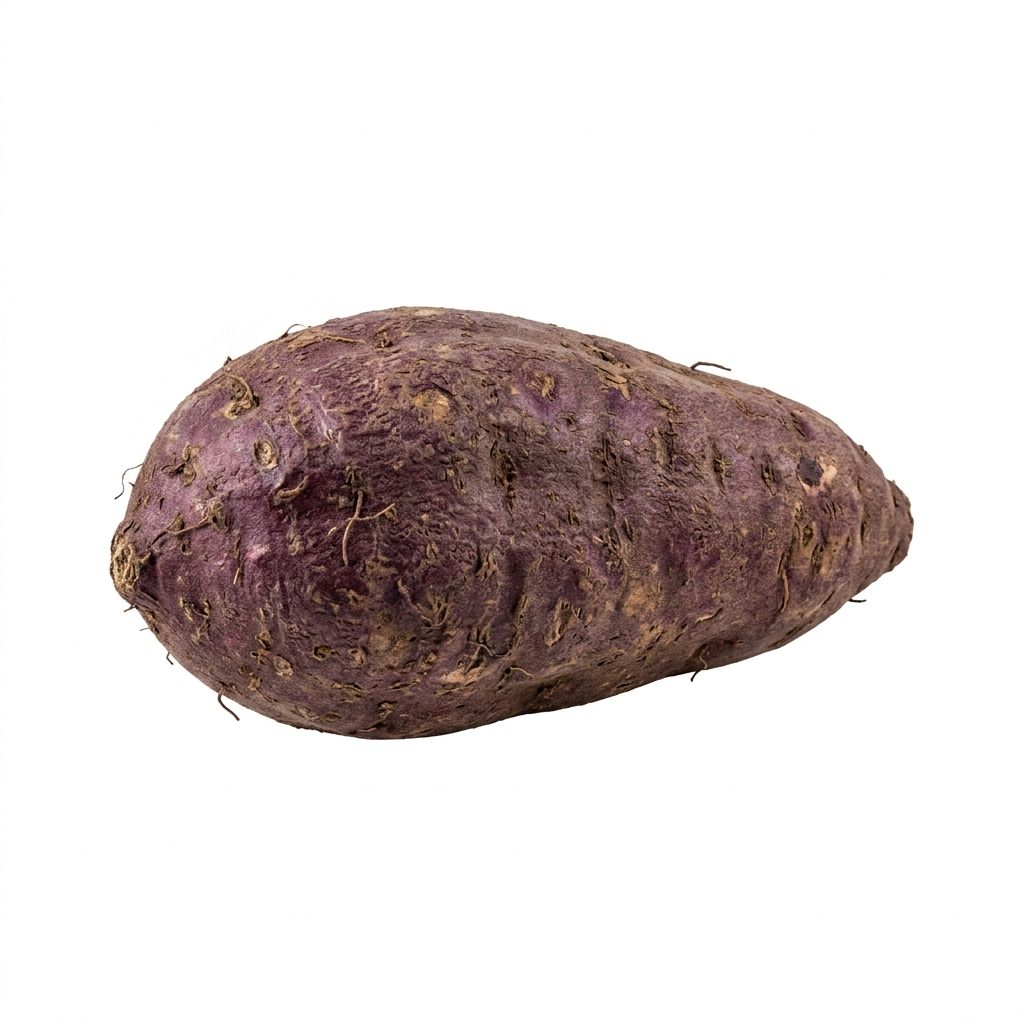
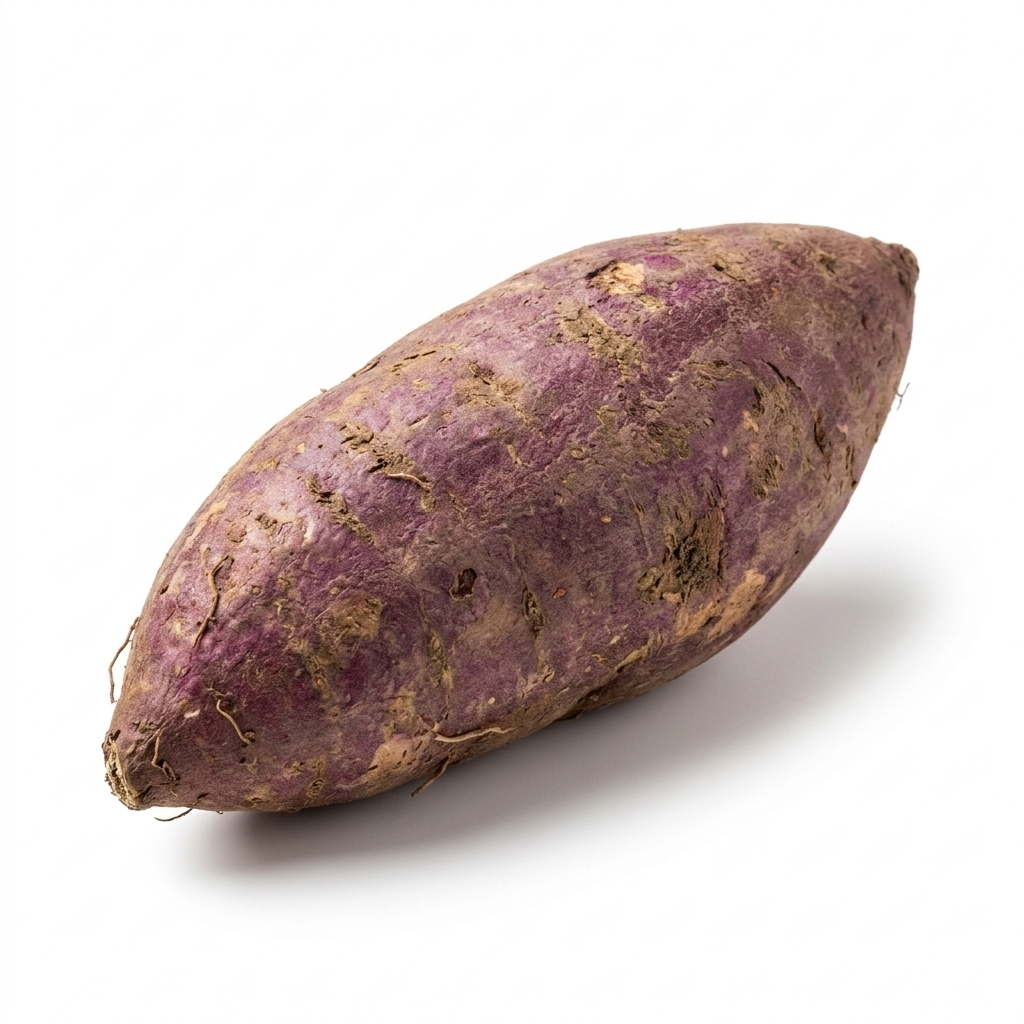
style: perfect compositional copy of reference images for camote and flours; add aesthetic guidelines file

diff --git a/docs/brand_guidelines.md b/docs/brand_guidelines.md
@@ -1,0 +1,22 @@
+# FincaGrown Aesthetics & Photography Guidelines
+
+This document tracks the specific compositional styles used for generated FincaGrown / Pata Palo assets to ensure a highly uniform, premium e-commerce layout where all images blend perfectly with the `mix-blend-mode: multiply` CSS layout.
+
+## 1. Fresh Produce (Frutas y Vegetales)
+*Reference Image:* `images/jackfruit.png`
+- **Lighting:** Studio-lit, soft, clean light.
+- **Placement:** Completely isolated on a pure, solid, flat white background (#ffffff). NO tables, NO wood, NO shadows across the background wall.
+- **Subject Angle:** The fresh produce must never be standing perfectly straight. It must be resting casually at a natural diagonal/slanted tilt.
+- **Grounding/Shadow:** A soft, realistic contact shadow MUST exist directly underneath the fruit to anchor it.
+
+## 2. Flours & Powders (Harinas y Polvos)
+*Reference Image:* `images/harina-camote.png`
+- **Lighting:** Studio-lit, delicate light highlighting the powder texture.
+- **Placement:** Completely isolated on a pure, solid, flat white background (#ffffff). NO tables.
+- **Subject Angle/Form:** The powders are typically presented as organic, beautifully textured mounds or piles (often with a rustic wooden spoon buried slightly into it, or just a very aesthetic loose pile).
+- **Grounding/Shadow:** Similar soft, realistic contact shadow directly underneath the pile or spoon to ground the composition against the pure white backdrop.
+
+## 3. Packaged Goods (Empaquetados // Ej. Jackfruit Empacado, Pastillas)
+- **Style:** Premium matte-finish stand-up pouches (e.g., olive green or deep blue depending on line).
+- **Branding:** Contains the official Pata Palo organic circular sticker.
+- **Placement:** Isolated on white, standing dynamically with a soft contact shadow or slight reflection.
